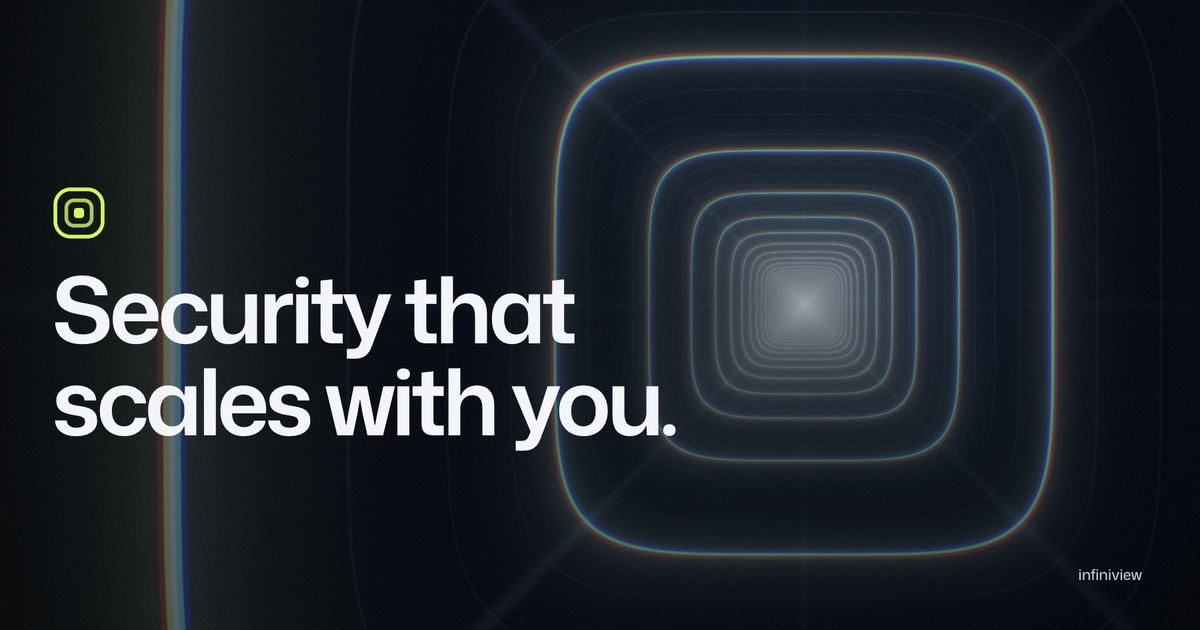
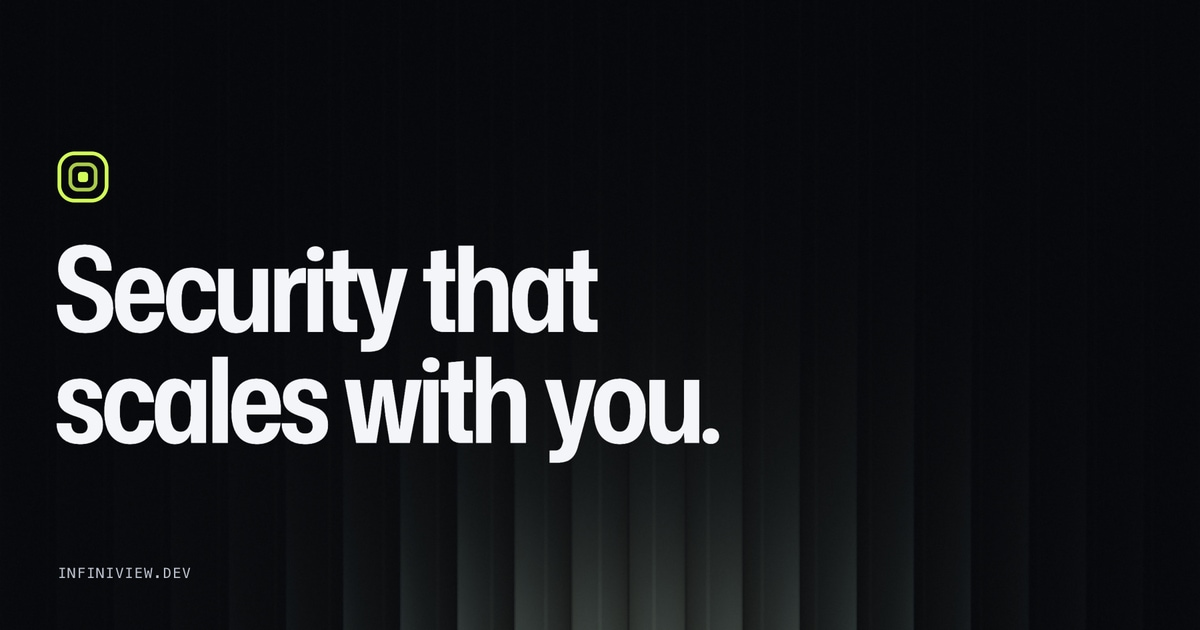
Social cards from the new wall; hero light on stacked layouts; review notes
- Open Graph and Twitter cards regenerated from the fluted wall with the display
  headline (about 95 KB each); alt texts updated earlier.
- On stacked layouts the hero's light stands lower behind the stage, so the labels
  above it stay at AA (measured at 768).
- Found tray slots carry short names where there is only room for a word.
- design-review.md: rounds 1 to 3; motion-system.md brought in line with the build.

diff --git a/src/components/site/hero.tsx b/src/components/site/hero.tsx
@@ -26,6 +26,8 @@ const WORDS: { text: string; br?: boolean }[] = [
 ];
 
 type FindingId = (typeof SAMPLE_FINDINGS)[number]["id"];
+// what a found slot says where there is only room for a word (phones, small laptops)
+const SHORT: Record<FindingId, string> = { sqli: "SQLi", refund: "Replay", rate: "No limit" };
 const IDS = SAMPLE_FINDINGS.map((f) => f.id) as FindingId[];
 
 /** Tell the findings console which finding to show (it listens; see findings-explorer.tsx). */
@@ -59,7 +61,10 @@ export function Hero() {
   // the opening mood: a cool light behind the stage
   useGSAP(() => {
     const light = () => {
-      aimLight(stage.current, 0.72, 0.22);
+      // side by side, the light stands behind the stage's upper right and its halo shows beside the
+      // headline; stacked (tablets, phones) the copy sits right above the stage, so it stands lower
+      const stacked = window.matchMedia("(max-width: 1023px)").matches;
+      aimLight(stage.current, stacked ? 0.6 : 0.72, stacked ? 0.7 : 0.22);
       setMood(HERO_MOOD, 1.2);
     };
     light();
@@ -442,7 +447,7 @@ export function Hero() {
                       <i aria-hidden />
                       <span className="tray-long">{got ? f.title : `Weak point ${i + 1}`}</span>
                       <span className="tray-short" aria-hidden>
-                        {got ? f.category : i + 1}
+                        {got ? SHORT[f.id] : i + 1}
                       </span>
                     </button>
                   </li>

diff --git a/src/app/(site)/home.css b/src/app/(site)/home.css
@@ -44,7 +44,7 @@
     font-size: 0.6875rem;
     letter-spacing: 0.06em;
     text-transform: uppercase;
-    color: var(--iv-ink-3);
+    color: var(--iv-ink-2);
   }
   .hero-assure li {
     display: flex;

diff --git a/docs/redesign/design-review.md b/docs/redesign/design-review.md
@@ -1,0 +1,78 @@
+# Design review
+
+Four self-review rounds and one independent critique. Every round's captures are outside git in
+`~/.t3/infiniview-redesign/rounds/<n>/`: `chromium/`, `webkit/`, `firefox/` and `iphone/` hold a
+scroll contact sheet for every page (`home`, `pricing`, `preview`, `404`) at 390, 768, 1024 and 1440
+(`*-rm.jpg` are the reduced-motion runs); `sec/` holds one full frame per section; `probe/` holds 2x
+close-ups of the glass in each engine; `interact/` holds frames from the scripted interactions.
+Reference frames are in `~/.t3/infiniview-redesign/references/<site>/`.
+
+The questions asked in every round: would it win Awwwards Site of the Day; would a developer say
+"holy shit"; is anything glitchy, slop-like, text-heavy or not fluid; how does each screen hold up
+next to Igloo, Lando Norris, Lusion, Linear and Raycast.
+
+## Round 1: first complete build
+
+Captures: `rounds/0` (first passes while building) and `rounds/1` (the full matrix, three engines).
+
+Judged against the references: the composition was right (a huge headline, a real product window,
+one glass instrument) and already closer to Linear and Raycast than the old site, but it was not
+finished work. Next to Igloo's palette discipline the wall was loud and blue; next to kube.io's
+glass the lens rim was mud; several things were plain bugs.
+
+| # | Found | Fixed by |
+| --- | --- | --- |
+| 1 | The wall's light was bright and sat behind copy on most screens (statement, coverage, FAQ; unreadable on a phone) | Dimmer field, smaller halo; later replaced by the anchored backlight (round 2) |
+| 2 | Lens: text at the rim turned to coloured speckle; a full inner frame crossed what was being read; the highlight was milky | Narrower bezel, lower displacement and dispersion, a 0.3 px pre-blur; the frame became four corner brackets; highlight halved |
+| 3 | Phone headline read "Attack your codebefore" (a break element with no space) | A space before the break |
+| 4 | Threat band: outlined type showed the font's internal contours (lines through A, f, z); the slab magnified into noise; WebKit drew an empty slab | Outlines drawn as silhouette shadows; no magnification; Safari gets the slab without the bend (WebKit will not filter content that wide) |
+| 5 | The nav's real refraction was not rendering at all in Chromium: its entrance animation was on an ancestor, which becomes the backdrop root | Entrance moved onto the bar itself; the filter now blurs, bends and dims the backdrop |
+| 6 | Headless WebKit and Firefox draw no backdrop blur, so page text showed sharply through the bar | Fallback tint made dense enough to read with no blur at all |
+| 7 | Pipeline: an empty stage at the first beat; the sandbox chip clipped; stage off-centre on phones; finding chips ran off the stage | The pull request is on stage from the start; chip moved outside the clipped shell; stage centred by percentage; chips read leftward from their point |
+| 8 | Phone tray labels truncated to "WEA…" | Short labels in a three-column row |
+| 9 | At 1024 the finale's form was 75 px wider than its column | The form measures its own column (container query) and stacks when narrow |
+| 10 | Finale copy could be read through the aperture's closing edge | The aperture is fully open before the copy is in view |
+| 11 | Footer wordmark showed contour lines inside its letters | No text-stroke; gradient fill only |
+| 12 | axe: one contrast failure (a label inside the dimmed production plate) | Label moved out of the dimmed element |
+
+## Round 2: numbers, contrast, layout shift
+
+Captures: `rounds/2` (matrix in three engines plus the iPhone profile and reduced motion, 76
+combinations; Lighthouse; load filmstrips; frame rates).
+
+Judged against the references: the page now had Linear's calm, but the measurements showed where it
+was not yet honest work.
+
+| # | Found | Fixed by |
+| --- | --- | --- |
+| 1 | Pixel contrast audit: 12 of 1,408 text boxes below AA, all small grey text near the wall's light, plus nav links over a passing headline | The light became a backlight anchored behind each chapter's product surface; type-only chapters get a dim light at the foot of the screen; the quietest text colour was raised; the nav glass dims its backdrop (Apple's "regular" variant). Result: 0 below AA |
+| 2 | CLS 0.038 while scrolling the pinned pipeline on desktop: the step list expanded and pushed its siblings | Step descriptions cross-fade in one reserved place; nothing is pushed |
+| 3 | Pricing on mobile: LCP 3.6 s, because the headline faded in from opacity 0 | Same masked words as the hero (transform only, painted in the first frame) |
+| 4 | Lighthouse flagged 3.47:1 on dim text inside the lens copy on one run | Raised to AA |
+| 5 | The light's anchor rect was read every frame | Read only when the page has scrolled or resized |
+| 6 | Report beat: with the sandbox gone the lime light stood in the open, far too strong at 1024 | Turned down for that beat |
+| 7 | Pipeline finding chips overlapped each other and repeated the attack view's own flags | Chips placed apart; flags hidden in that chapter |
+| 8 | Small laptops: the tray wrapped onto two rows | Short labels up to 1180 px |
+
+## Round 3: interactions and the still version
+
+Captures: `rounds/3` (matrix again, 76 combinations, all clean; interaction scripts in three
+engines; per-section frames).
+
+| # | Found | Fixed by |
+| --- | --- | --- |
+| 1 | **The third weak point could not be found.** The sample app's footer (the rate-limit meter) had been pushed out of the window by a taller table, so the lens game could never be completed. Caught by the interaction script, not by eye | The app's body grid gives up table rows first; the footer never leaves |
+| 2 | Reduced motion: the wall's one still frame kept the hero's light fixed on screen, so every later section scrolled its copy across it | A quiet still frame with a dim light at the foot of the screen |
+| 3 | Reduced motion: the pipeline's still showed the last beat, an empty stage ("sandbox torn down") | The still shows the sandbox sealed, in attack view, with its findings |
+| 4 | Found tray slot on a phone read "BUSIN…" | Short names (SQLi, Replay, No limit) |
+| 5 | Synthetic touch input raised `NotFoundError` from pointer capture in WebKit | Capture is guarded |
+
+Interaction results, identical in Chromium, WebKit and Firefox: the lens follows the pointer and
+locks all three weak points; the tray opens the matching finding in the console; tabs and arrow keys
+work; the proof replays (1 line visible mid-way, 4 at the end); dragging the timeline scrubs the run
+(1,586 px of scroll for half the track) and settles on a beat; a step button jumps to its beat; the
+merge check reads blocked at the end; the slider's arrow keys step; anchors land; the FAQ opens one
+item at a time; Home to Pricing and back is a client-side transition with no reload; no console
+errors.
+
+<!-- CRITIC -->

diff --git a/docs/redesign/motion-system.md b/docs/redesign/motion-system.md
@@ -20,8 +20,9 @@ covered.
 | **Leaving** | menus closing, panels collapsing, the old page on a route change | ease-in: `--ease-in` `cubic-bezier(0.55, 0, 0.9, 0.3)`, and always shorter than the arrival |
 | **Touched** | anything the visitor drags, flicks or selects | a spring (below). Never a duration |
 
-Nothing in the interface uses `linear` or a browser default curve, except constant motion (the
-threat band's drift, the hold bar on the proof replay).
+Nothing in the interface uses `linear` or a browser default curve, except constant motion: the
+threat band's drift, the console's autoplay bar, and typed lines (a request in the proof replay, the
+command in the terminal), which appear at the constant rate of a hand on a keyboard.
 
 ## Springs
 
@@ -32,9 +33,9 @@ every one of these can be interrupted and reversed in flight.
 | Token | Stiffness | Damping | Damping ratio | Feel | Used by |
 | --- | --- | --- | --- | --- | --- |
 | `SPRING.follow` | 260 | 28 | 0.87 | follows a hand closely, settles without wobble | the lens tracking the pointer |
-| `SPRING.release` | 170 | 20 | 0.77 | a flick lands with a small overshoot | the lens and the pipeline handle after a drag ends |
-| `SPRING.ui` | 420 | 41 | 1.0 | placed, no overshoot | selection pills, nav indicator, toggles |
-| `SPRING.soft` | 90 | 19 | 1.0 | slow and heavy | the wall's light, camera-like drifts |
+| `SPRING.release` | 170 | 20 | 0.77 | a flick lands with a small overshoot | the lens after a drag ends |
+| `SPRING.ui` | 420 | 41 | 1.0 | placed, no overshoot | selection pills (nav, findings, evidence tabs), the lens sent to a weak point from the tray, the lens's focus brackets |
+| `SPRING.soft` | 90 | 19 | 1.0 | slow and heavy | the lens drifting by itself |
 
 Rules:
 
@@ -44,8 +45,14 @@ Rules:
   only when a gesture supplied momentum.
 - **Momentum projection.** A flick's resting point is projected with Apple's exponential decay
   (`v / 1000 * d / (1 - d)`, `d = 0.994`) and clamped to the stage before the spring is aimed at it.
+  The pipeline's timeline handle uses the same projection to choose which beat a throw lands on; the
+  page then scrolls there (the handle is the scroll position, so it has one source of truth).
+- **Pills stretch.** A selection pill's leading edge is stiffer than its trailing edge, so it
+  reaches toward where it is going and gathers itself on arrival.
+- **Damped followers.** The wall's light and the scroll-driven values are frame-rate independent
+  exponential followers (`x += (target - x) * (1 - exp(-k * dt))`), not springs: they never overshoot.
 - **Velocity shows.** The lens stretches along its direction of travel in proportion to speed
-  (at most 6 %) and relaxes as it stops; the selection pill stretches between its old and new place.
+  (at most 6 %) and relaxes as it stops; its highlight slides against the direction of travel.
 - The CSS twin of `SPRING.ui` is `--spring` (a `linear()` curve with an `--ease-out` fallback) for
   state changes that CSS alone handles, such as a button returning from a press.
 
@@ -88,11 +95,11 @@ No two chapters share a transition.
 
 | Chapter | Lead | How it moves |
 | --- | --- | --- |
-| Hero | headline, then the lens | words rise from masks (CSS); the lens materialises (blur and scale together) and starts to drift |
+| Hero | headline, then the lens | words rise from masks (CSS, from the first paint); the stage arrives as one piece; the lens materialises (blur and scale together) and starts to drift |
 | Threat band | the slab | rows drift, scroll velocity pushes them; what passes through the slab is lit |
 | Statement | the sentence | each word lights as the scroll passes it |
 | Pipeline | the chamber | pinned; five beats scrubbed both ways with exact rest poses; the timeline handle can be dragged |
-| Findings | the console | the window assembles once; the pill and the evidence respond to selection |
+| Findings | the console | the window arrives once; the pills slide on springs; the proof is replayed (typed requests, arriving responses) |
 | Coverage | the numerals | numerals rise from masks, lane lines draw across |
 | Finale | the aperture | a frame opens to full bleed, scrubbed |
 | Route change | the page | the old page leaves with ease-in, the new arrives with ease-out; the nav and the wall persist |
